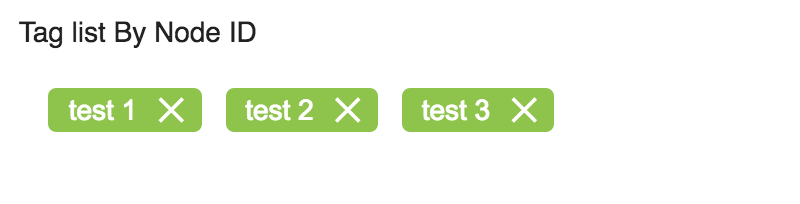
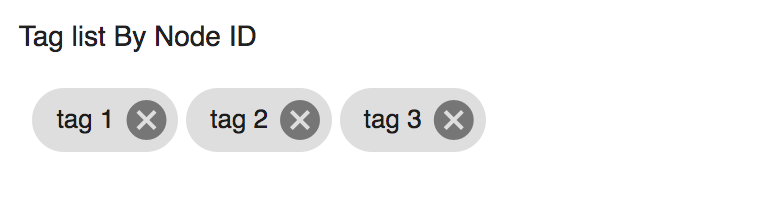
Update alfresco tag with the material chips #1499

Changed region(s): [[0.0312, 0.4118, 0.7188, 0.7353], [0.0, 0.0882, 0.3438, 0.2647]]

diff --git a/ng2-components/ng2-alfresco-tag/src/components/tag-node-list.component.html b/ng2-components/ng2-alfresco-tag/src/components/tag-node-list.component.html
@@ -1,8 +1,15 @@
 <div class="tag-list-container">
     <ul class="tags">
         <li *ngFor="let currentEntry of tagsEntries; let idx = index">
-            <div id="tag_name_{{idx}}" class="tag-name">{{currentEntry.entry.tag}}</div>
-            <div id="tag_delete_{{idx}}" class="tag-delete" (click)="removeTag(currentEntry.entry.id)" ><i class="material-icons delete-icon">close</i></div>
+            <span class="mdl-chip mdl-chip--deletable">
+                 <span id="tag_name_{{idx}}" class="mdl-chip__text">{{currentEntry.entry.tag}}</span>
+                      <button id="tag_delete_{{idx}}" type="button" class="mdl-chip__action"
+                              (click)="removeTag(currentEntry.entry.id)">
+                          <i class="material-icons">cancel</i>
+                      </button>
+            </span>
         </li>
     </ul>
 </div>
+
+
